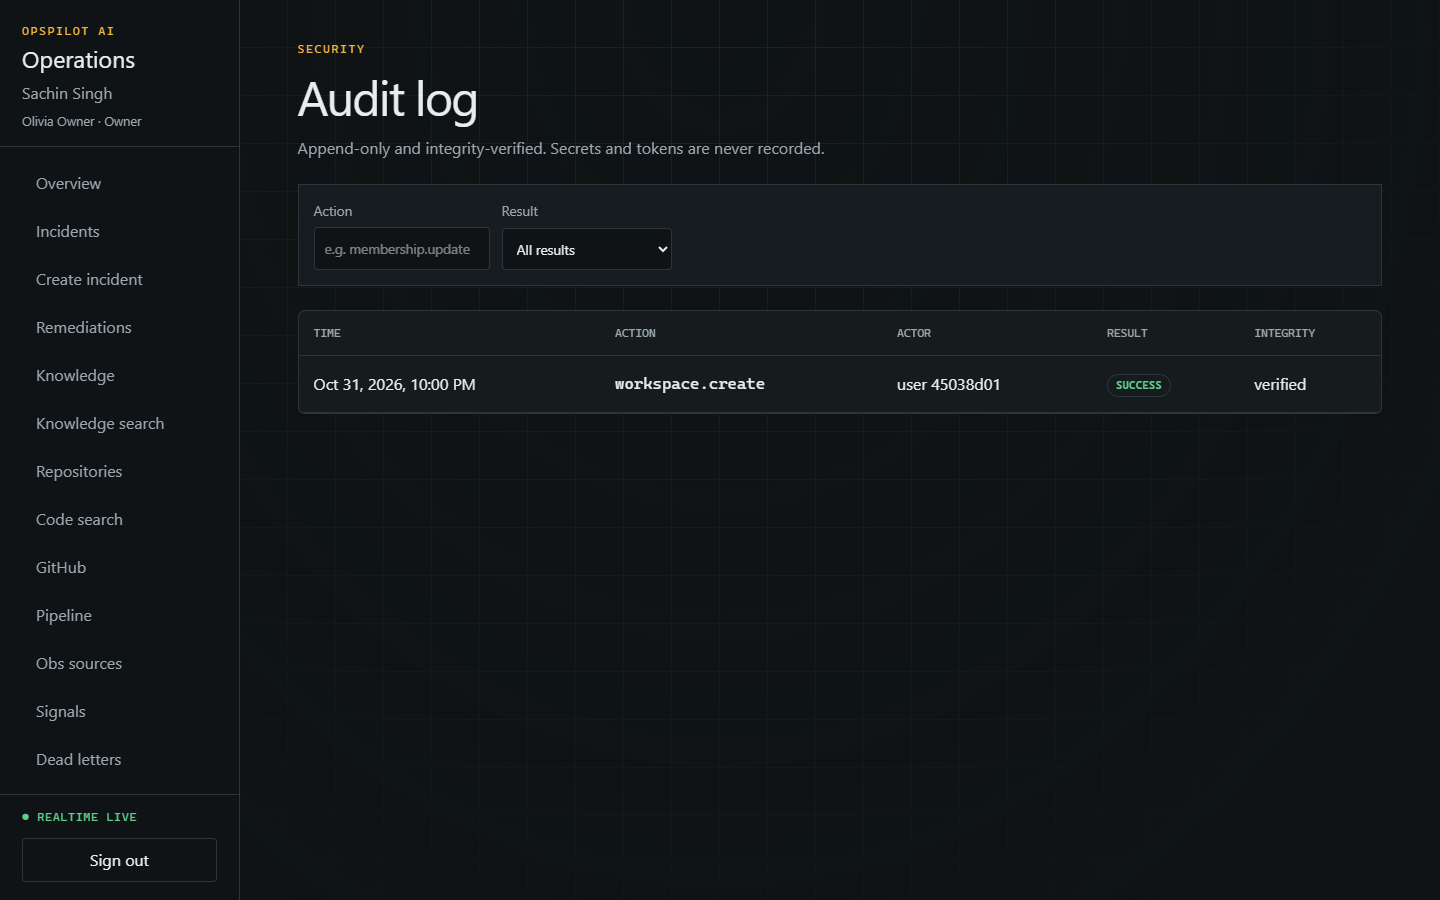
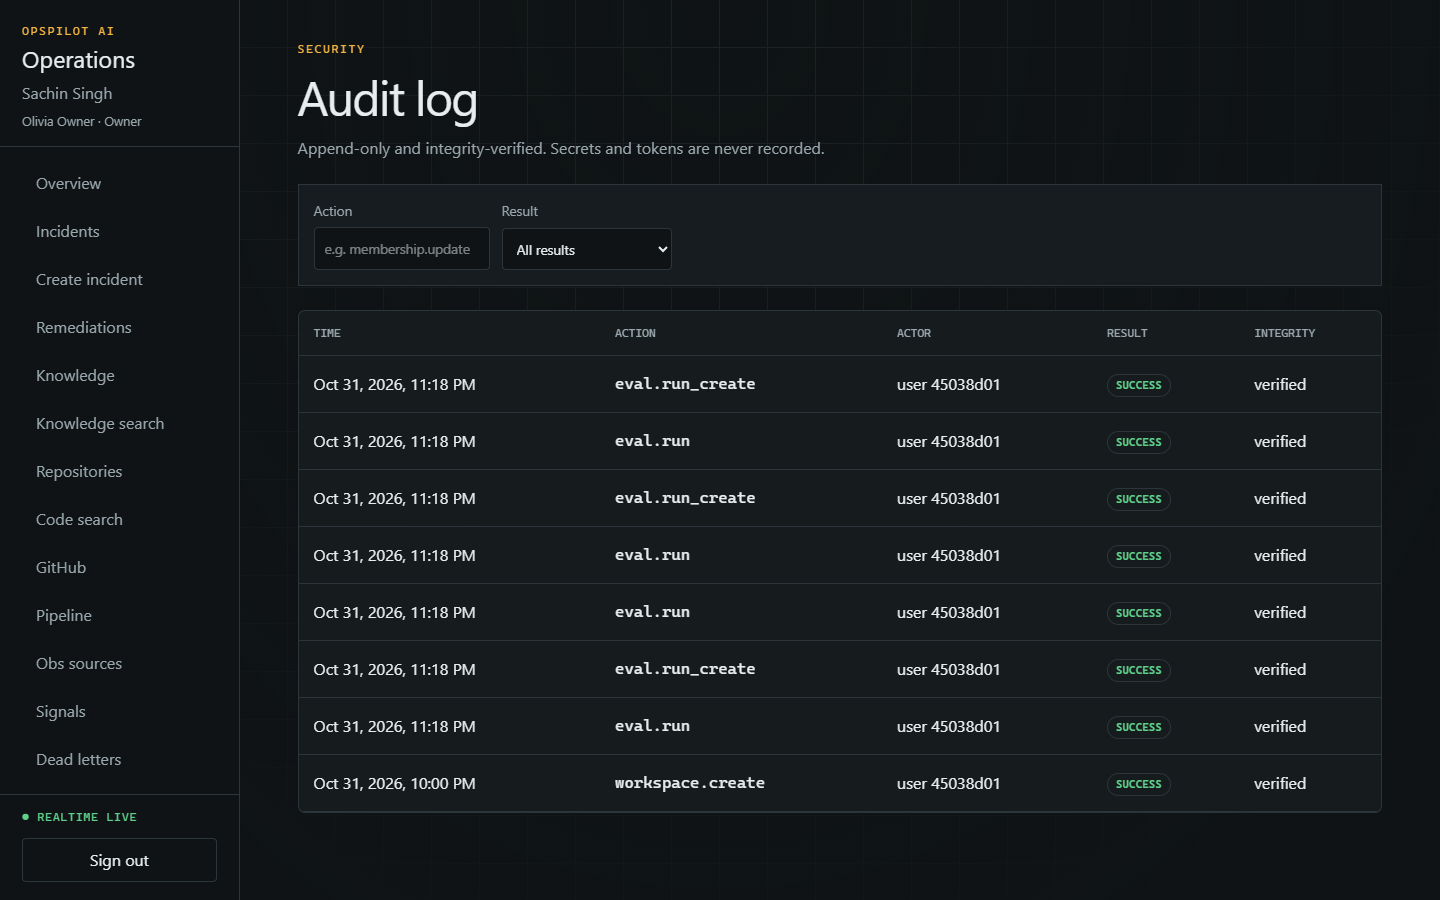
Add LLMOps evaluation screenshots to the article and post
Ran the golden dataset through the app on the worker with the deterministic provider:
a baseline tuning run (87 of 88 passed), a CI gate baseline (103 of 104), and a
deliberately regressing candidate (41 of 104) whose hard safety gates fail
(tenant and secret leaks). The article labels these as deterministic, not a
real-model measurement.

diff --git a/docs/project-article.md b/docs/project-article.md
@@ -96,6 +96,22 @@ OpsPilot is my attempt at the middle path. The AI does the reading and proposes 
 
 *Image 17. The services a workspace monitors. Everything in the application is scoped to a workspace, and a request for another tenant's resource is indistinguishable from a request for something that does not exist.*
 
+## 8. Evaluation gates for the LLM
+
+![LLMOps overview](images/18-llmops-overview.png)
+
+*Image 18. Every change to a prompt or model is evaluated against a 104-case golden dataset before it can be published. The trend shows two baseline runs near 99% and a deliberately broken variant dropping to 39%.*
+
+![Evaluation runs](images/19-llmops-evaluations.png)
+
+*Image 19. Runs are started from the console and executed by the worker. Each run records the dataset version, variant, purpose and pass counts. Token and latency figures are labelled "synthetic (not measured)" because this run uses the deterministic provider.*
+
+![A regression the gate catches](images/20-llmops-regression-blocked.png)
+
+*Image 20. The regressing variant passes 41 of 104 cases, and the hard safety gates fail: zero tenant leaks (5 violations) and zero secret leaks (4 violations). Hard gates can never be overridden, so this prompt could not be published.*
+
+These runs use the deterministic provider, so they test the harness, the graders and the gates, not the quality of a real model. A separate, capped, opt-in command evaluates a real model.
+
 ## How it is built
 
 - **Backend:** Python 3.12, FastAPI, SQLAlchemy and Alembic, LangGraph, RQ. Strict typing with mypy, ruff for style.
@@ -140,5 +156,8 @@ It runs locally with Docker Compose and in GitHub Actions. It has **not** been d
 | 15 | `images/15-audit-log.png` | Audit log |
 | 16 | `images/16-members-and-roles.png` | Members and roles |
 | 17 | `images/17-services.png` | Services |
+| 18 | `images/18-llmops-overview.png` | LLM quality trend |
+| 19 | `images/19-llmops-evaluations.png` | Evaluation runs |
+| 20 | `images/20-llmops-regression-blocked.png` | Regression caught by hard gates |
 
 Regenerate the screenshots with `node apps/web/scripts/capture-screenshots.mjs` against a stack that has the demo data.

diff --git a/docs/linkedin-post.md b/docs/linkedin-post.md
@@ -1,6 +1,6 @@
 # LinkedIn post (copy and paste)
 
-Attach images in this order: 0 (architecture), 8 (human review gate), 2 (overview), 7 (report), 11 (pipeline), 14 (dead letters). Put the full walkthrough in the comments or as an article (`docs/project-article.md`).
+Attach images in this order: 0 (architecture), 8 (human review gate), 2 (overview), 7 (report), 20 (evaluation gate catching a regression), 14 (dead letters). Put the full walkthrough in the comments or as an article (`docs/project-article.md`).
 
 ---
 
@@ -16,7 +16,7 @@ What it does:
 
 Choices I care about:
 • Multi-tenant from day one: OIDC sign-in, server-side roles on every route, scoped API keys, an integrity-checked audit log
-• LLM controls: versioned prompts, evaluation gates in CI, budgets, circuit breakers
+• LLM controls: versioned prompts, a 104-case evaluation gate (a deliberately broken variant dropped to 39% and tripped the hard safety gates), budgets, circuit breakers
 • Fail loudly: a database outage returns a retryable 503, never a fake success
 
 Stack: FastAPI, Next.js, PostgreSQL + pgvector, Redis, Kafka, LangGraph, Keycloak, Docker.
